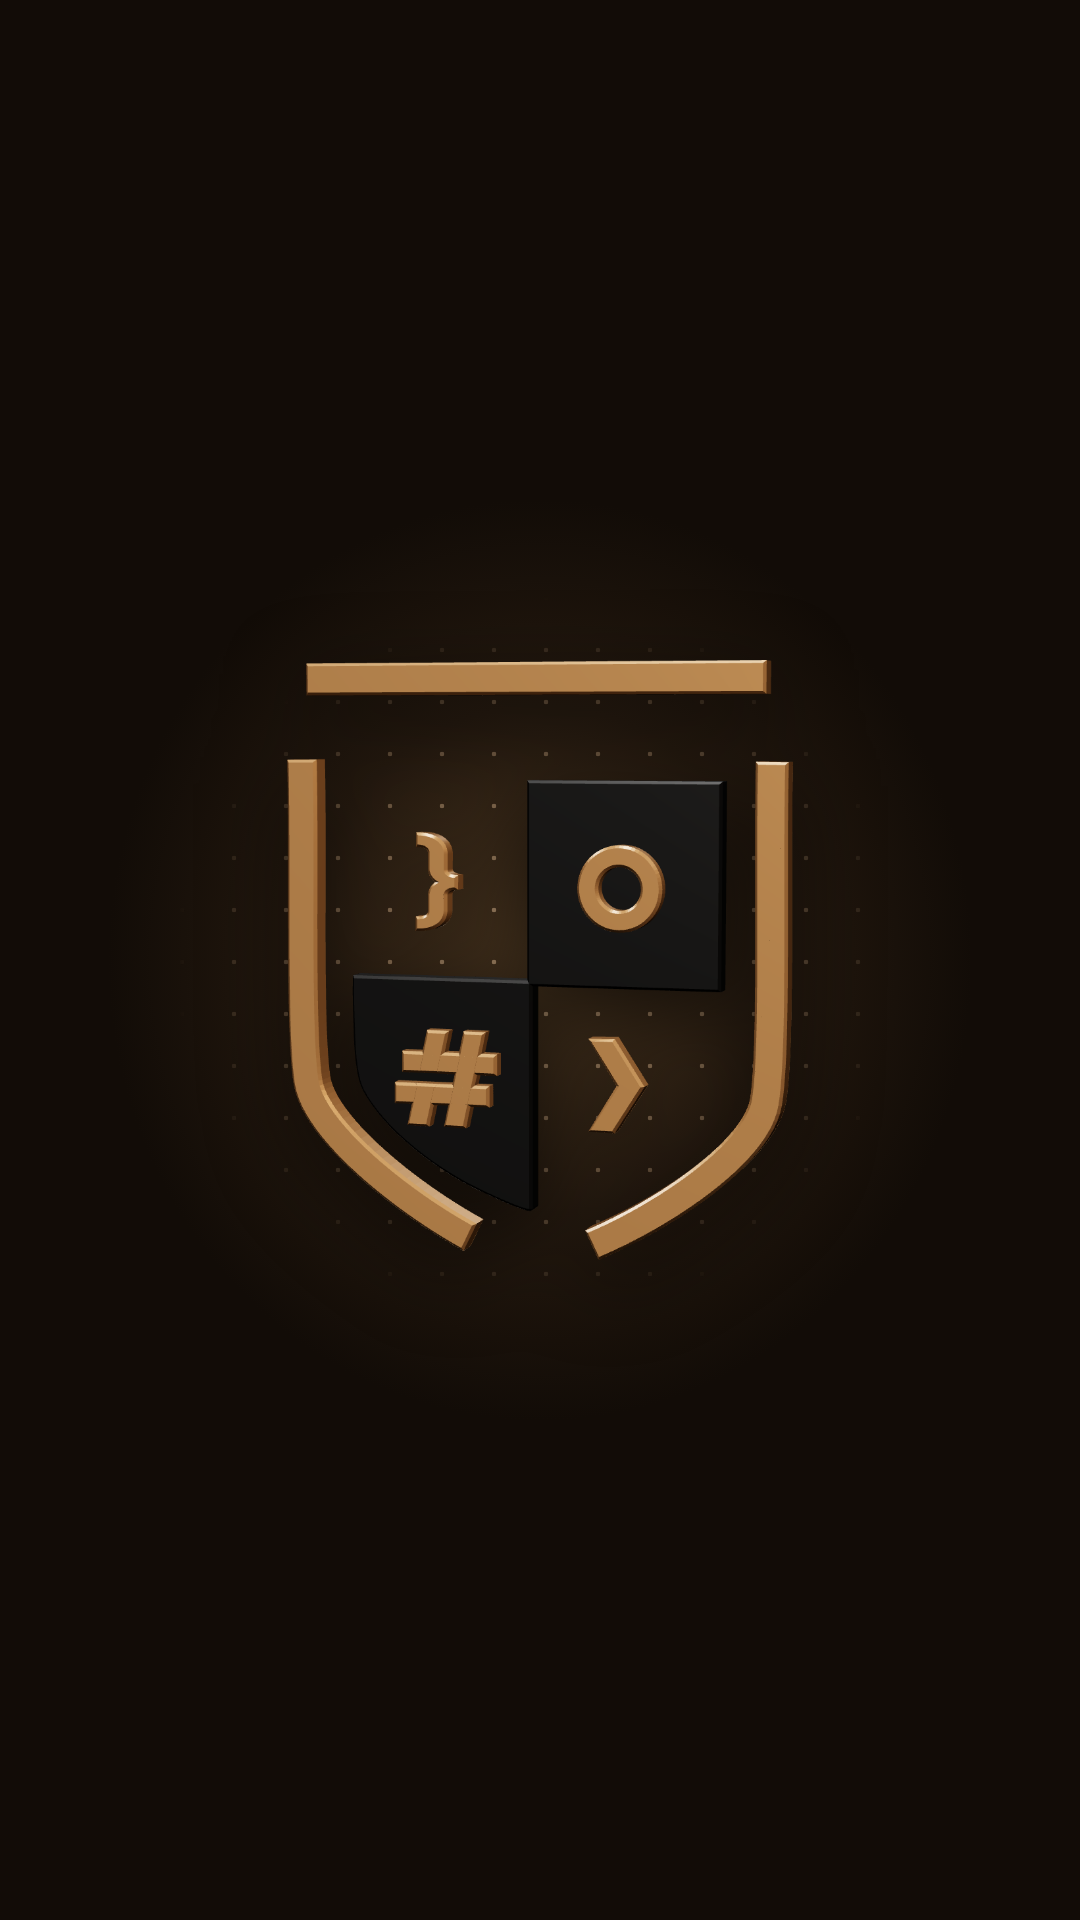
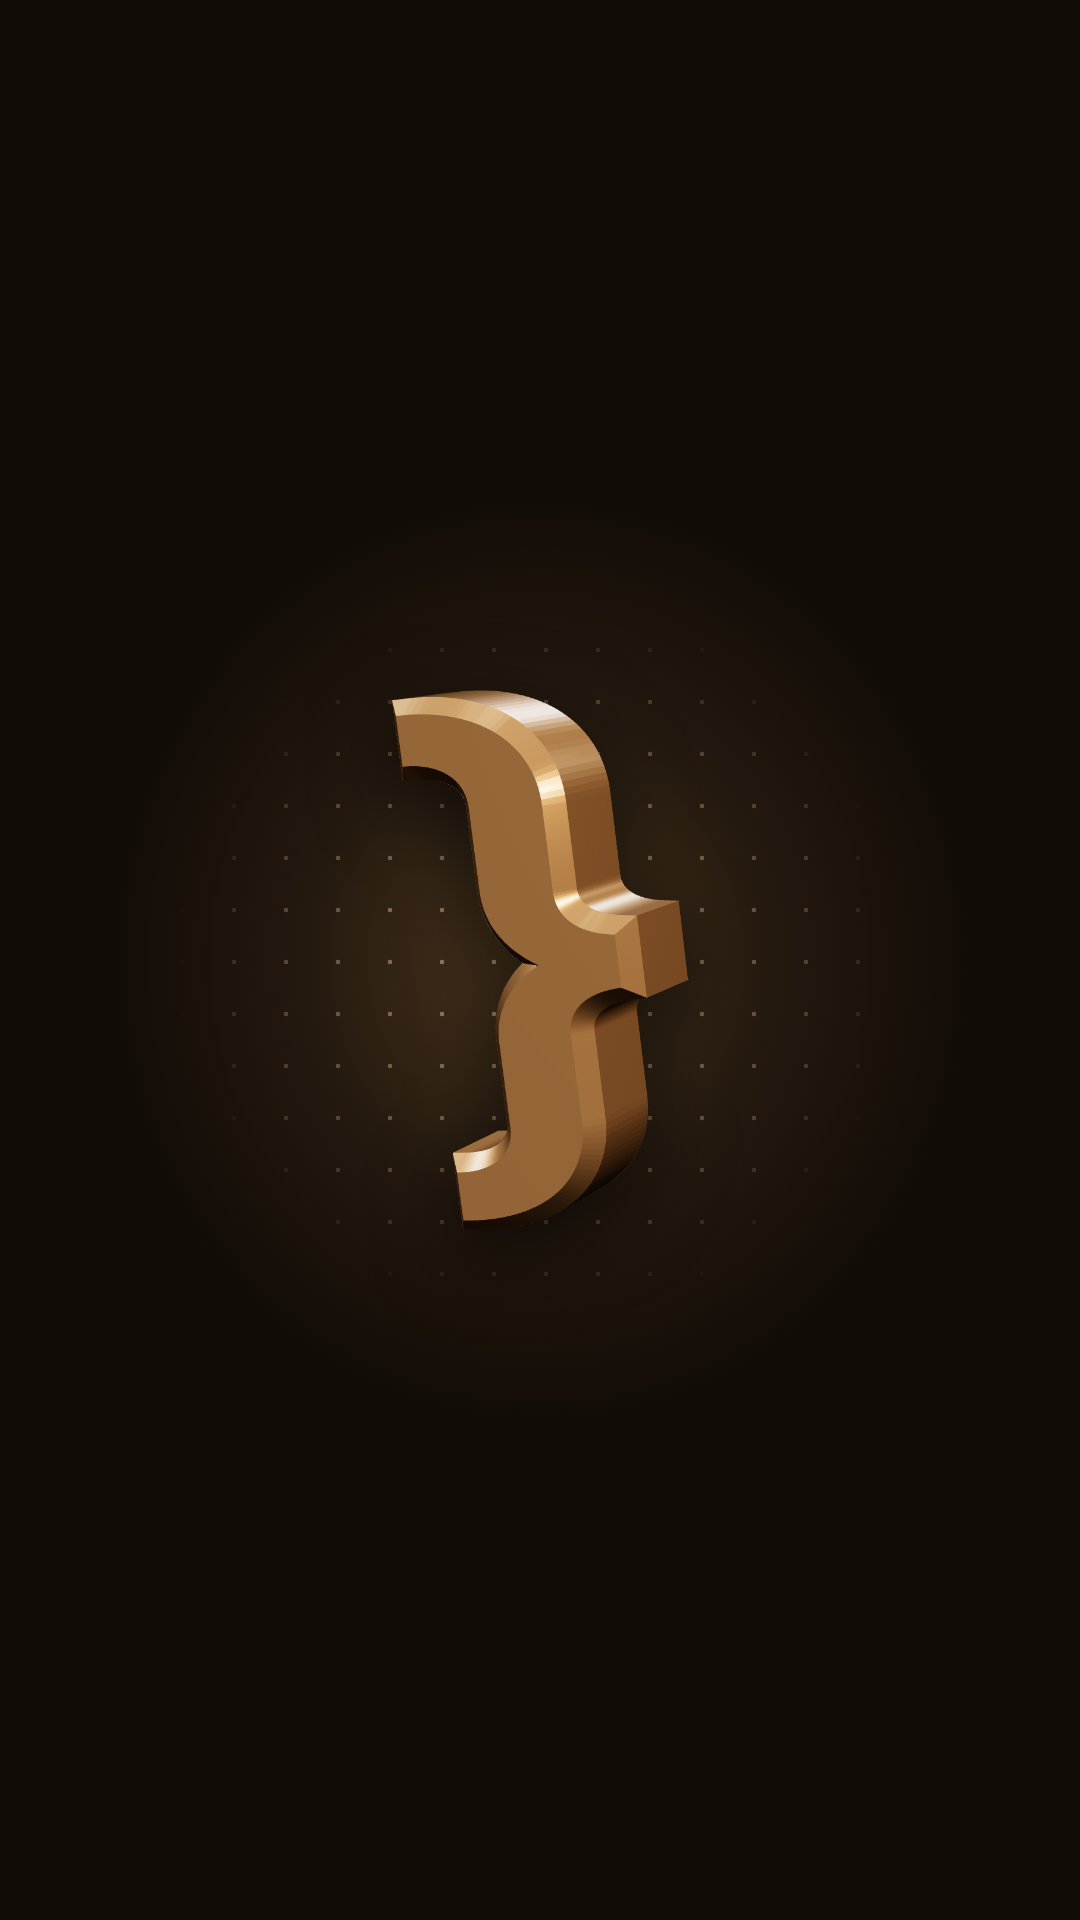
About cover: brace glyph instead of crest
Claude-Session: https://claude.ai/code/session_01F8vpXYV6V72iEGbNVpHMN7

Changed region(s): [[0.2444, 0.3438, 0.7333, 0.6562]]

diff --git a/2026-10-30_highlight_covers/cover_about.html b/2026-10-30_highlight_covers/cover_about.html
@@ -2,4 +2,4 @@
 .bg{position:absolute;inset:0;background:radial-gradient(40% 24% at 50% 50%,#4a3620 0%,#24190f 55%,#120c07 100%)}
 .dots{position:absolute;inset:0;background-image:radial-gradient(circle,rgba(217,180,140,.75) 2px,transparent 2.6px);background-size:52px 52px;-webkit-mask:radial-gradient(34% 19% at 50% 50%,#000 0%,rgba(0,0,0,.4) 70%,transparent 100%)}
 img{position:absolute;left:50%;top:50%;transform:translate(-50%,-50%);filter:drop-shadow(0 24px 40px rgba(0,0,0,.6))}</style>
-<div class="bg"></div><div class="dots"></div><img src="crest3d.png" style="height:600px">
+<div class="bg"></div><div class="dots"></div><img src="glyph_brace.png" style="height:540px">
